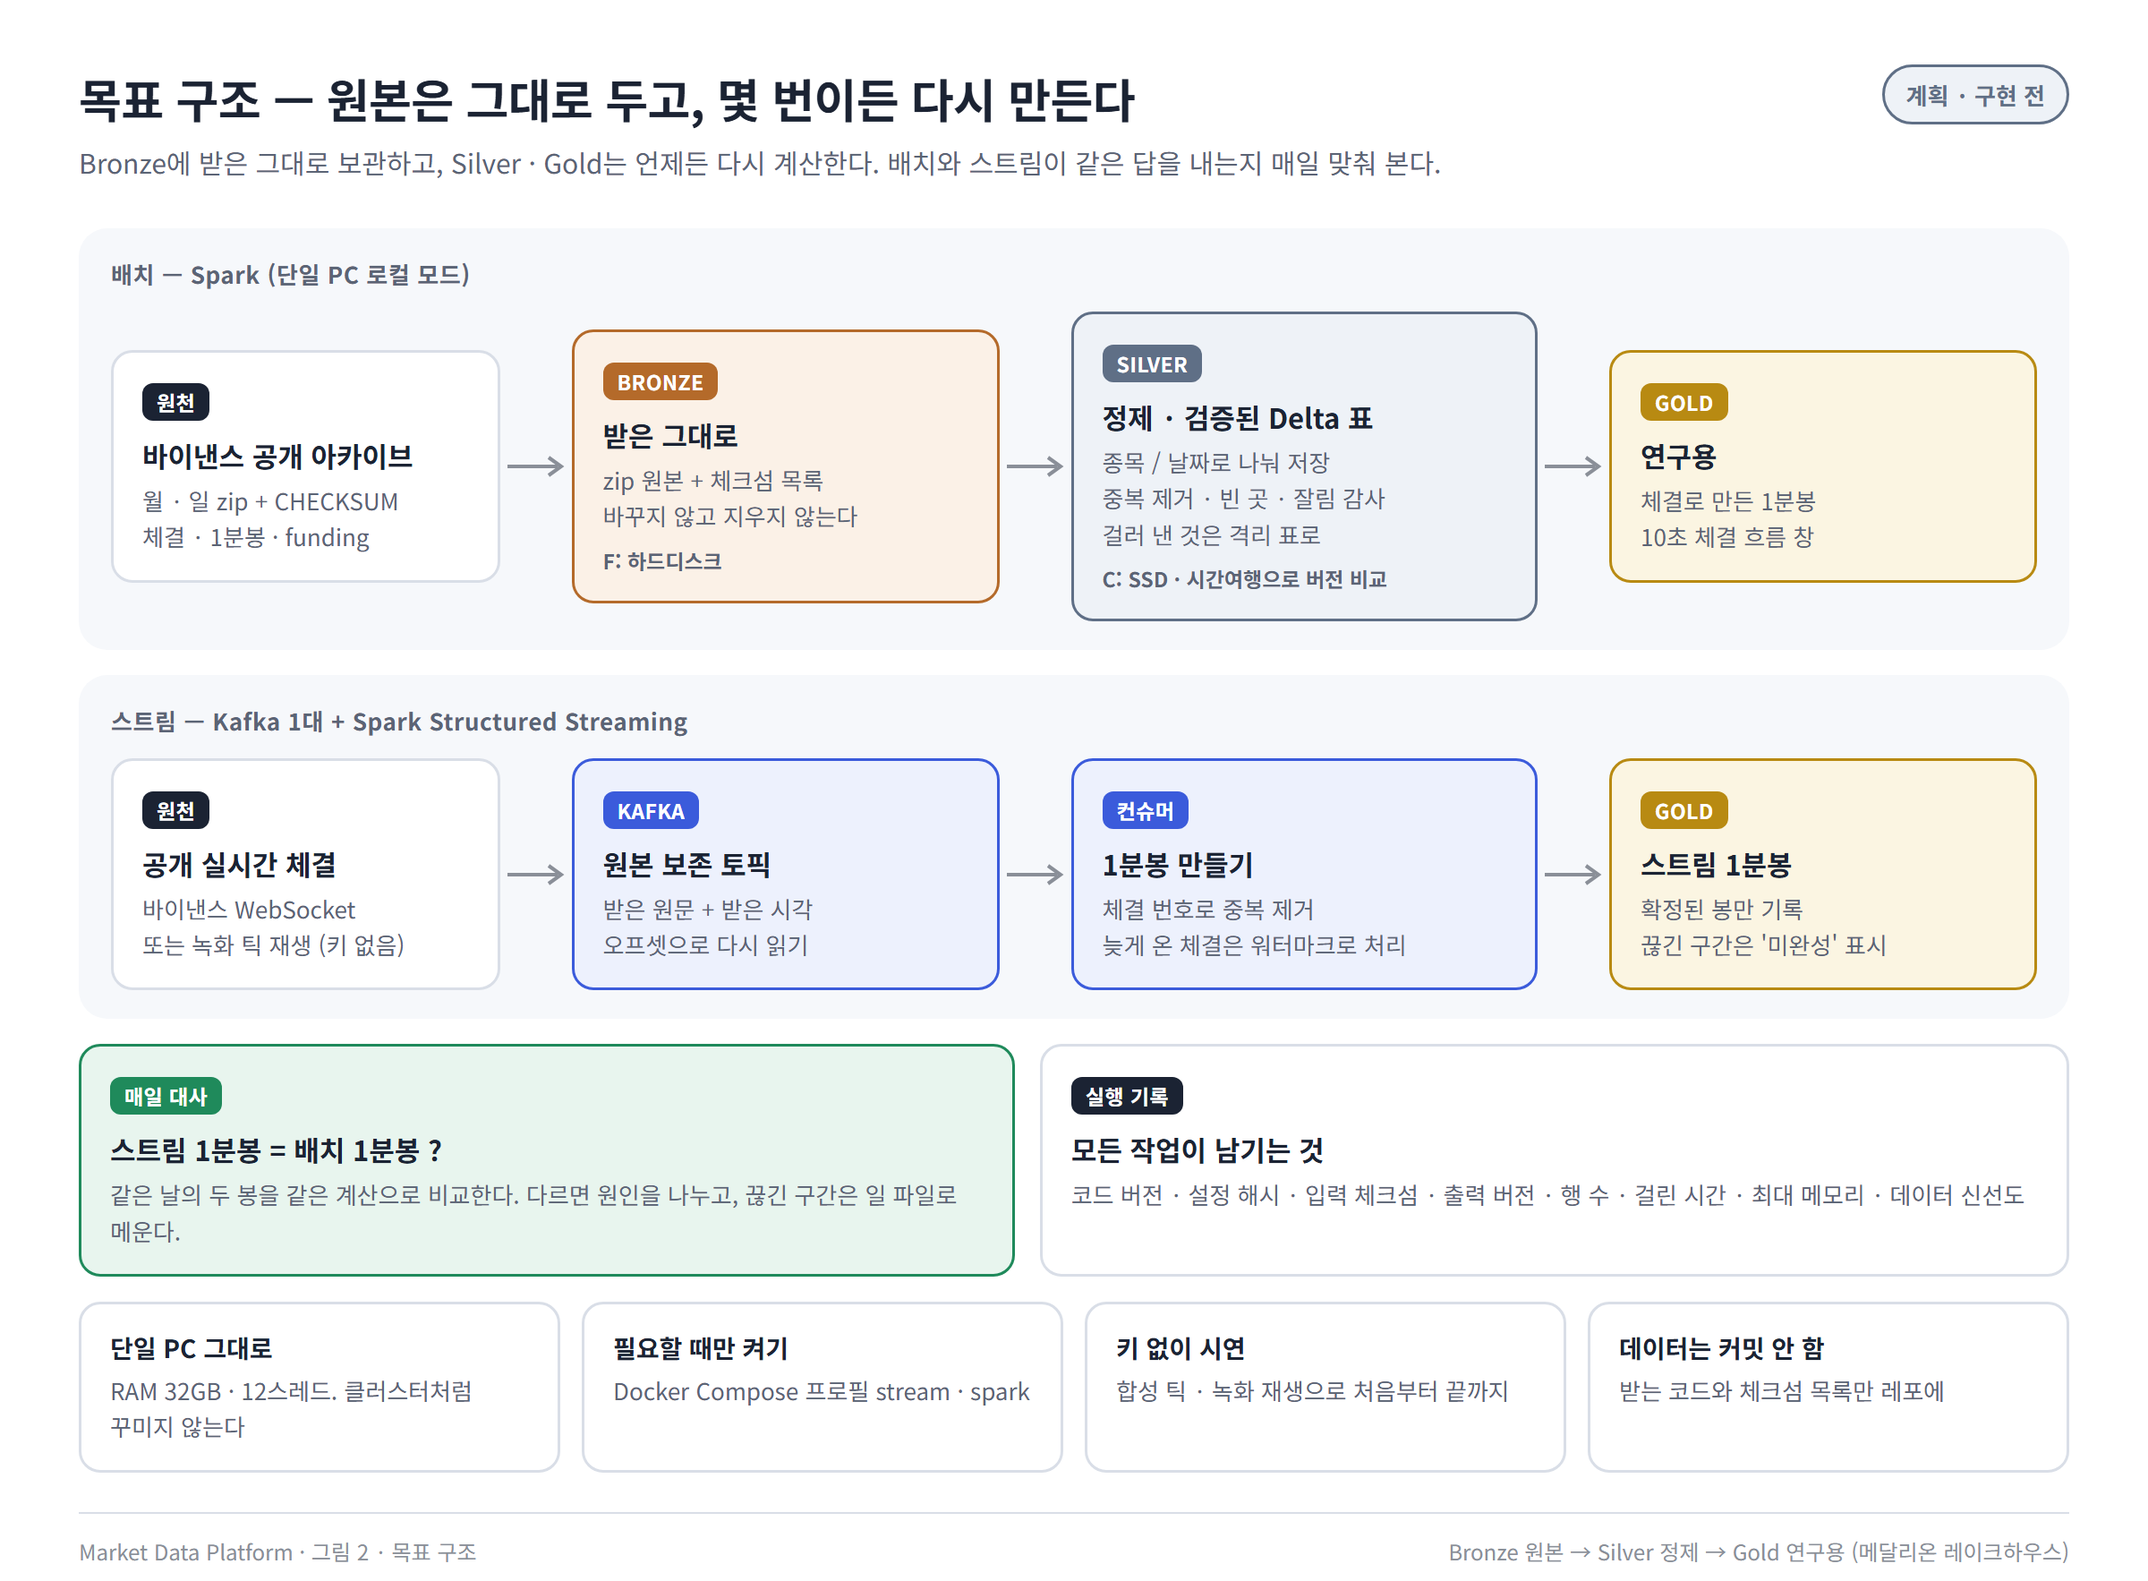
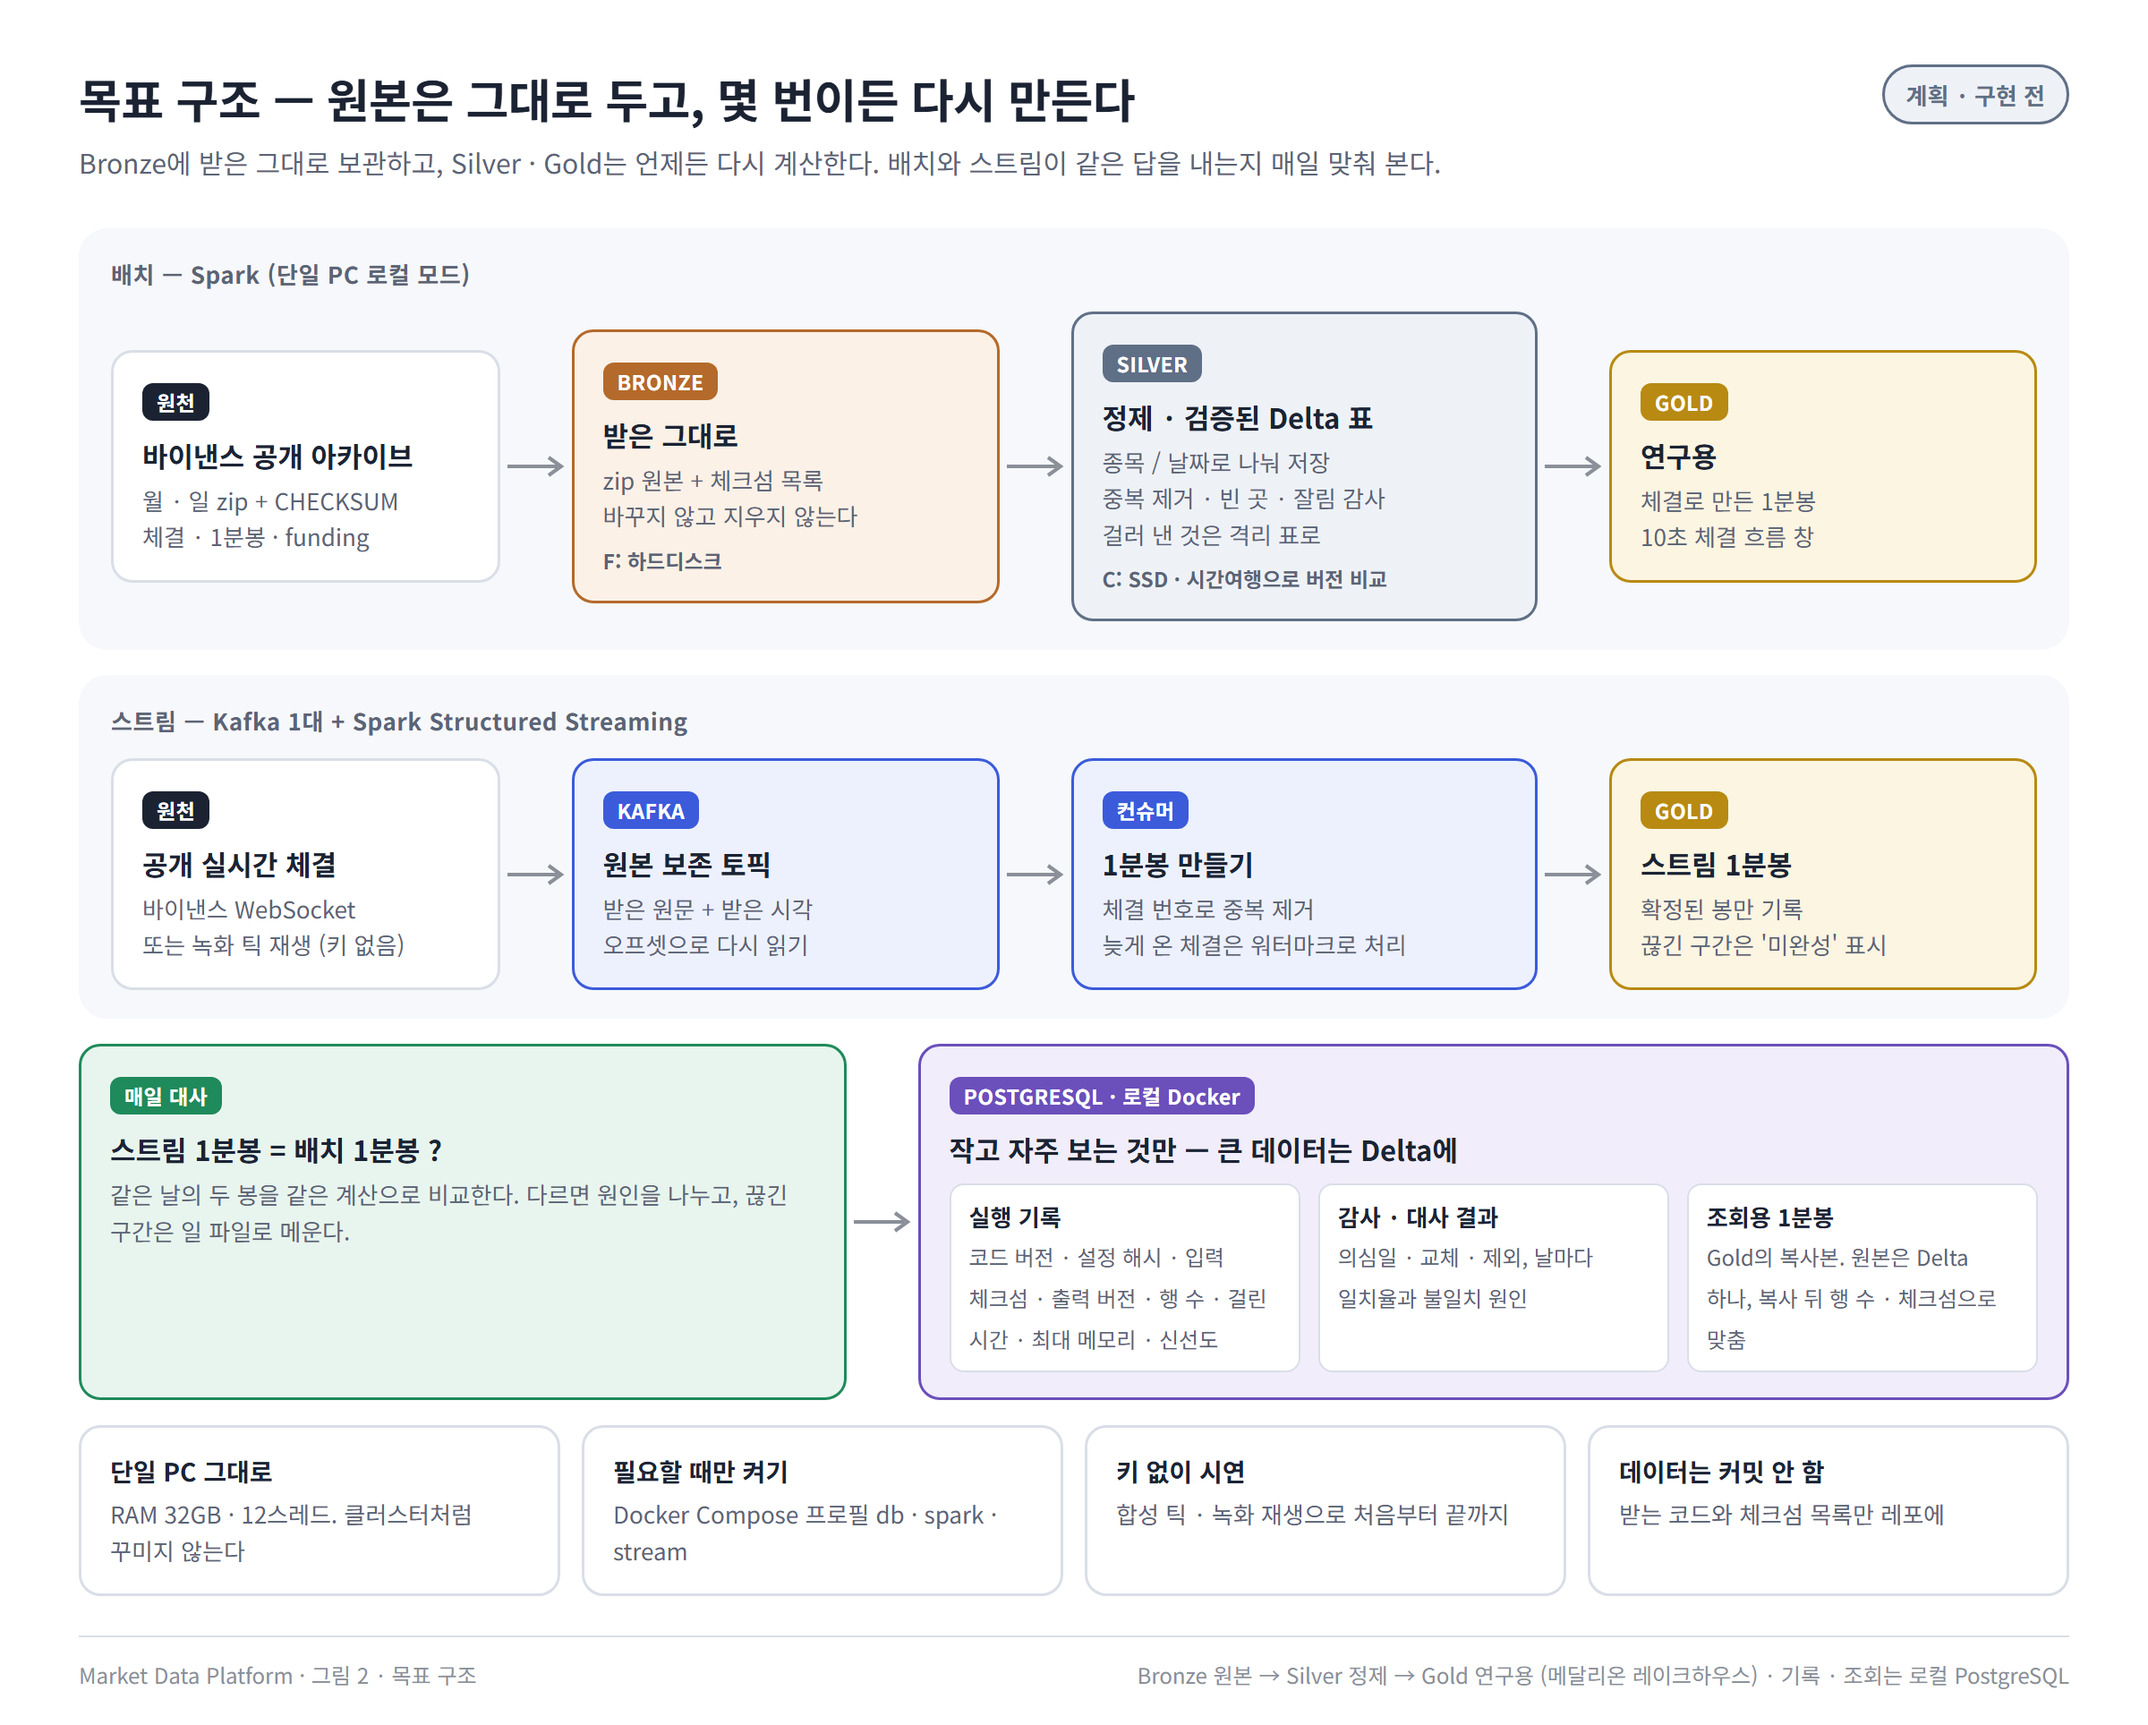
목표 구조에 로컬 PostgreSQL 추가
저장소 역할을 나눴다(사용자 결정 "필요한 부분만 로컬 postgresql로만 구성하자").
큰 데이터(체결 · Bronze/Silver/Gold)는 Delta Lake, 작고 자주 보는 표만 로컬 Docker PostgreSQL.
체결을 PostgreSQL 에 넣으면 수백 GB 로 추정되어(재 보지 않음) SSD 에 들어가지 않는다.
Supabase 는 쓰지 않는다(원본의 Supabase 는 실거래 장부라 규칙 2 에 걸림).

- 그림 2: PostgreSQL 상자(실행 기록 · 감사/대사 결과 · 조회용 1 분봉 복사본), Compose 프로필에 db
- style.css: PostgreSQL 색(보라) 추가
- README: 소개 · 진행 표 3 · 4 단계 · 그림 2 설명에 PostgreSQL 역할

diff --git a/docs/diagrams/02_to_be.html b/docs/diagrams/02_to_be.html
@@ -3,7 +3,12 @@
 <style>
   .row { display: grid; grid-template-columns: 1fr 40px 1.1fr 40px 1.2fr 40px 1.1fr; align-items: center; }
   .lanes { display: flex; flex-direction: column; gap: 14px; }
-  .meet { display: grid; grid-template-columns: 1fr 1.1fr; gap: 14px; margin-top: 14px; }
+  .meet { display: grid; grid-template-columns: 1fr 40px 1.5fr; gap: 0; margin-top: 14px; align-items: stretch; }
+  .meet .arrow { align-self: center; }
+  .dbgrid { display: grid; grid-template-columns: 1fr 1fr 1fr; gap: 10px; margin-top: 8px; }
+  .dbgrid div { background: var(--paper); border: 1px solid var(--line); border-radius: 8px; padding: 8px 10px; }
+  .dbgrid b { font-size: 13px; display: block; color: var(--ink); }
+  .dbgrid span { font-size: 12px; color: var(--ink-soft); line-height: 1.5; }
   .strip { display: grid; grid-template-columns: repeat(4, 1fr); gap: 12px; margin-top: 14px; }
   .strip .box h3 { font-size: 14px; }
   .where { font-size: 11.5px; font-weight: 700; color: var(--ink-soft); margin-top: 6px; }
@@ -49,15 +54,22 @@
 
   <div class="meet">
     <div class="box okbox"><span class="tag">매일 대사</span><h3>스트림 1분봉 = 배치 1분봉 ?</h3><p>같은 날의 두 봉을 같은 계산으로 비교한다. 다르면 원인을 나누고, 끊긴 구간은 일 파일로 메운다.</p></div>
-    <div class="box plain"><span class="tag">실행 기록</span><h3>모든 작업이 남기는 것</h3><p>코드 버전 · 설정 해시 · 입력 체크섬 · 출력 버전 · 행 수 · 걸린 시간 · 최대 메모리 · 데이터 신선도</p></div>
+    <div class="arrow"><svg width="36" height="16"><path d="M2 8h28" stroke="#8a8f98" stroke-width="2"/><path d="M25 3l7 5-7 5" fill="none" stroke="#8a8f98" stroke-width="2"/></svg></div>
+    <div class="box dbbox"><span class="tag">POSTGRESQL · 로컬 Docker</span><h3>작고 자주 보는 것만 — 큰 데이터는 Delta에</h3>
+      <div class="dbgrid">
+        <div><b>실행 기록</b><span>코드 버전 · 설정 해시 · 입력 체크섬 · 출력 버전 · 행 수 · 걸린 시간 · 최대 메모리 · 신선도</span></div>
+        <div><b>감사 · 대사 결과</b><span>의심일 · 교체 · 제외, 날마다 일치율과 불일치 원인</span></div>
+        <div><b>조회용 1분봉</b><span>Gold의 복사본. 원본은 Delta 하나, 복사 뒤 행 수 · 체크섬으로 맞춤</span></div>
+      </div>
+    </div>
   </div>
 
   <div class="strip">
     <div class="box"><h3>단일 PC 그대로</h3><p>RAM 32GB · 12스레드. 클러스터처럼 꾸미지 않는다</p></div>
-    <div class="box"><h3>필요할 때만 켜기</h3><p>Docker Compose 프로필 stream · spark</p></div>
+    <div class="box"><h3>필요할 때만 켜기</h3><p>Docker Compose 프로필 db · spark · stream</p></div>
     <div class="box"><h3>키 없이 시연</h3><p>합성 틱 · 녹화 재생으로 처음부터 끝까지</p></div>
     <div class="box"><h3>데이터는 커밋 안 함</h3><p>받는 코드와 체크섬 목록만 레포에</p></div>
   </div>
 
-  <div class="foot"><span>Market Data Platform · 그림 2 · 목표 구조</span><span>Bronze 원본 → Silver 정제 → Gold 연구용 (메달리온 레이크하우스)</span></div>
+  <div class="foot"><span>Market Data Platform · 그림 2 · 목표 구조</span><span>Bronze 원본 → Silver 정제 → Gold 연구용 (메달리온 레이크하우스) · 기록 · 조회는 로컬 PostgreSQL</span></div>
 </div></body></html>

diff --git a/docs/diagrams/style.css b/docs/diagrams/style.css
@@ -13,6 +13,7 @@
   --ok:     #1f8a5b;  --ok-wash:     #e8f5ee;
   --warn:   #d48a1c;  --warn-wash:   #fdf3e3;
   --bad:    #c2453d;  --bad-wash:    #fbecea;
+  --db:     #6b4fbb;  --db-wash:     #f1edfa;   /* 로컬 PostgreSQL (작은 기록 · 조회 표) */
   --muted:  #8a8f98;
 }
 
@@ -67,6 +68,8 @@ body {
 .okbox .tag { background: var(--ok); color: #fff; }
 .badbox { border-color: var(--bad); background: var(--bad-wash); }
 .badbox .tag { background: var(--bad); color: #fff; }
+.dbbox  { border-color: var(--db); background: var(--db-wash); }
+.dbbox .tag { background: var(--db); color: #fff; }
 .plain .tag { background: var(--ink); color: #fff; }
 
 /* 화살표 */

diff --git a/README.md b/README.md
@@ -2,6 +2,7 @@
 
 > 개인 퀀트 연구 저장소(「오르빗」)의 시장 데이터 코드를 **데이터 엔지니어링 포트폴리오**로 옮겨 가는 저장소.
 > 원본 → 정제 → 연구용 계층(메달리온 레이크하우스), Spark 배치, Kafka 스트림, 데이터 품질 감사와 다시 처리하기를 보여 주는 것이 목표다.
+> 큰 데이터는 Delta Lake 에, 실행 기록 · 감사 결과 · 조회용 표처럼 작고 자주 보는 것은 로컬 PostgreSQL 에 둔다.
 
 **지금 상태: 전환 중.** 아래 그림 중 1 · 3 은 지금 있는 것, 2 · 4 는 앞으로 만들 계획이다(그림 오른쪽 위 표시).
 
@@ -12,8 +13,8 @@
 | 0 | 원본 연구 저장소를 히스토리째 복사 | ✅ 끝 |
 | 1 | DE 코드(시장 데이터 · 저장 계층 · 체결 추출) 이름 풀기 · `[쓰임]`/`[이유]` 주석 — 동작 변경 없음 | ✅ 끝 · [기록](docs/DE_REFACTOR.md) |
 | 2 | 실주문 · 실계좌 코드 걷어 내기 (가상 장부만 남김) | ⏳ 다음 |
-| 3 | Bronze — 공개 아카이브를 받은 그대로 보관 + 체크섬 목록 | ⏳ 계획 |
-| 4 | Silver · Gold — Spark 로 정제 · 감사 · 1 분봉 만들기 | ⏳ 계획 |
+| 3 | Bronze — 공개 아카이브를 받은 그대로 보관 + 체크섬 목록, 실행 기록은 로컬 PostgreSQL 에 | ⏳ 계획 |
+| 4 | Silver · Gold — Spark 로 정제 · 감사 · 1 분봉 만들기, 감사 결과 · 조회용 1 분봉을 PostgreSQL 에 | ⏳ 계획 |
 | 5 | Kafka 스트림 1 분봉 + 매일 배치와 대사 | ⏳ 계획 |
 
 단계가 끝날 때마다 이 표와 그림을 함께 고친다. 그림 고치는 법은 [docs/diagrams](docs/diagrams/README.md).
@@ -27,6 +28,9 @@
 ## 2. 목표 구조
 
 Bronze 에 받은 그대로 두고, Silver · Gold 는 언제든 다시 계산한다. 배치와 스트림이 같은 답을 내는지 매일 맞춰 본다.
+
+PostgreSQL 은 로컬 Docker 한 대로, 작고 자주 보는 표만 둔다. 체결(약 64.6 억 행)까지 넣으면 색인을 빼고도 수백 GB 로
+추정되어(재 보지 않은 추정) PC 의 SSD 에 들어가지 않기 때문이다. 조회용 1 분봉은 Gold 의 복사본이고 원본은 Delta 하나다.
 
 ![그림 2 · 목표 구조](docs/diagrams/02_to_be.png)
 
